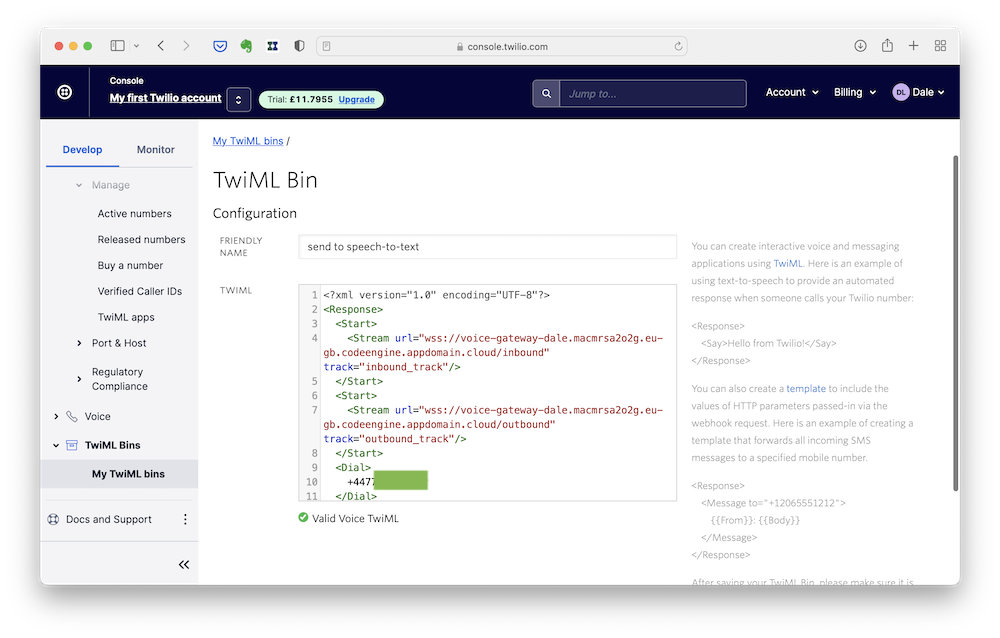
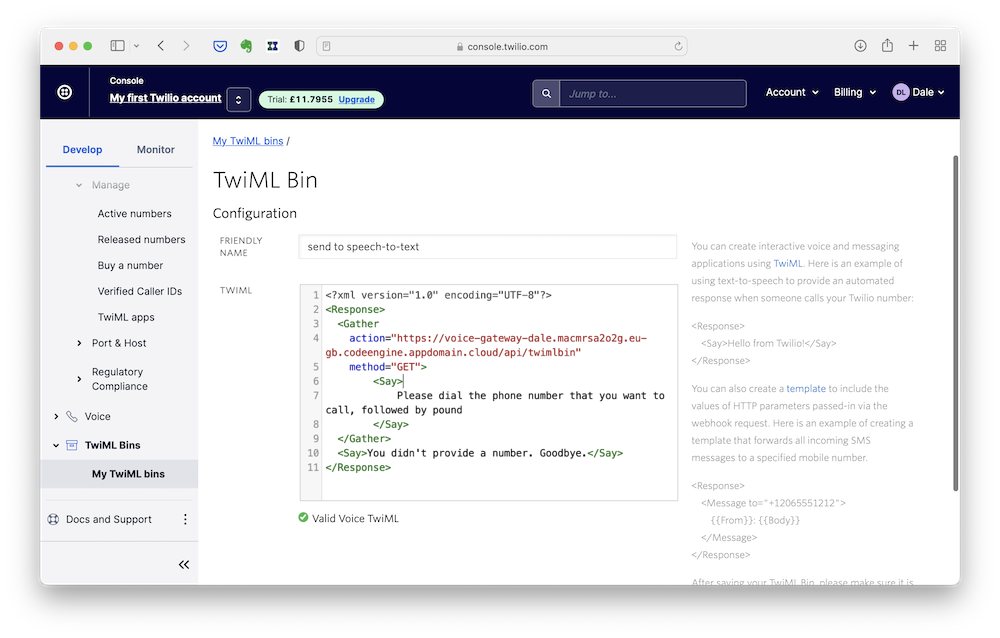
feat: allow the caller to dial the number they want to ring
Instead of hard-coding the receiver's phone number in the TwiML
Bin, this commit lets the caller dial the phone number for the
receiver.

It isn't possible to use both <Gather> and <Dial> in the same
TwiML Bin, so I've split the call handling into two separate bins

The first is responsible for collecting the number. This can be
hard-coded.

The second routes the call to the collected number. This one needs
to be dynamically generated, to use the number that the caller
dialled.

Changed region(s): [[0.31, 0.4467, 0.682, 0.8041], [0.279, 0.7445, 0.31, 0.7743]]

diff --git a/lib/twilio.spec.js b/lib/twilio.spec.js
@@ -1,0 +1,69 @@
+const fs = require('fs');
+const twilio = require('./twilio');
+const expect = require('chai').expect;
+
+
+describe('twiml bin generator', () => {
+
+    function clearEnv() {
+        delete process.env.HOST;
+        delete process.env.CE_APP;
+        delete process.env.CE_SUBDOMAIN;
+        delete process.env.CE_DOMAIN;
+    }
+
+    function getTestFile(loc) {
+        return fs.readFileSync(loc, { encoding: 'utf8' }).trim();
+    }
+
+    after(clearEnv);
+
+
+    describe('running locally', () => {
+        before(() => {
+            clearEnv();
+            twilio.init();
+        });
+
+        it('should generate a template for a number', () => {
+            const NUM = '441231112345';
+            const generated = twilio.generateTwimlBin(NUM);
+            const expected = getTestFile('./lib/testdata/twiml-local.xml');
+            expect(generated).to.equal(expected);
+        });
+    });
+
+
+    describe('running in Code Engine', () => {
+        before(() => {
+            clearEnv();
+            process.env.CE_APP = 'phone-stt-demo';
+            process.env.CE_SUBDOMAIN = 'abcdefg1h2i';
+            process.env.CE_DOMAIN = 'eu-gb.codeengine.appdomain.cloud';
+            twilio.init();
+        });
+
+        it('should generate a template for a number', () => {
+            const NUM = '442380613733';
+            const generated = twilio.generateTwimlBin(NUM);
+            const expected = getTestFile('./lib/testdata/twiml-appengine.xml');
+            expect(generated).to.equal(expected);
+        });
+    });
+
+
+    describe('running with a custom hostname', () => {
+        before(() => {
+            clearEnv();
+            process.env.HOST = 'custom-domain.com';
+            twilio.init();
+        });
+
+        it('should generate a template for a number', () => {
+            const NUM = '441962819579';
+            const generated = twilio.generateTwimlBin(NUM);
+            const expected = getTestFile('./lib/testdata/twiml-custom.xml');
+            expect(generated).to.equal(expected);
+        });
+    });
+});

diff --git a/lib/api.js b/lib/api.js
@@ -5,6 +5,7 @@ const expressWebSocket = require('express-ws');
 const sttStore = require('./stt-store');
 const phoneToStt = require('./phone-to-stt');
 const uiUpdater = require('./ui-updater');
+const twilio = require('./twilio');
 const nlu = require('./nlu');
 const nluConfig = require('./config/nlu');
 
@@ -77,6 +78,30 @@ function getCallSpeakerAnalysis(req, res) {
 
 
 
+/**
+ * Generates a TwiML Bin config XML that defines a routing instruction
+ *  for the phone number identified in the query parameter "Digits".
+ *
+ * @param {Express.Request}  req - expressjs request object
+ * @param {Express.Response} res - expressjs response object
+ */
+function createTwimlBin(req, res) {
+    //
+    // twilio provides the number that the caller typed into their
+    //  phone as a query parameter called "Digits"
+    //
+    // cf. https://www.twilio.com/docs/voice/twiml/gather#action
+    const receiverPhoneNumber = req.query.Digits;
+
+    if (!receiverPhoneNumber) {
+        return res.status(400).json({ error: 'Missing required query parameter "Digits"' });
+    }
+    const twimlbin = twilio.generateTwimlBin(receiverPhoneNumber);
+    res.set('Content-Type', 'text/xml');
+    res.send(twimlbin);
+}
+
+
 
 /**
  * Sets up the provided instance of ExpressJS.
@@ -116,6 +141,13 @@ function setup(app) {
     app.get('/api/calls',                          getCalls);
     app.get('/api/calls/:timestamp/transcript',    getCallTranscript);
     app.get('/api/calls/:timestamp/analysis/:who', getCallSpeakerAnalysis);
+
+
+    // support for text payloads
+    app.use(express.text());
+
+    // API for generating an XML-config for a TwiML Bin
+    app.get('/api/twimlbin', createTwimlBin);
 
 
     // ----------------------------------------------------

diff --git a/lib/api.spec.js b/lib/api.spec.js
@@ -1,5 +1,7 @@
+const fs = require('fs');
 const nlu = require('./nlu');
 const api = require('./api');
+const twilio = require('./twilio');
 const sttStore = require('./stt-store');
 const request = require('supertest');
 const express = require('express');
@@ -29,6 +31,9 @@ describe('rest api', () => {
                 return Promise.resolve(recordedNLUApiResponses[params.text]);
             });
         nlu.init();
+
+        // prepare the twiml bin generator
+        twilio.init();
 
         // create an instance of the server
         const app = express();
@@ -134,5 +139,24 @@ describe('rest api', () => {
             joy: 0.951437,
             sadness: 0.039175
         });
+    });
+
+
+    it('should require a phone number to generate a TwiML Bin config', async () => {
+        const response = await request(testServer).get('/api/twimlbin');
+        expect(response.status).to.eql(400);
+        expect(response.body).to.deep.equal({ error: 'Missing required query parameter "Digits"' });
+    });
+
+    it('should generate a TwiML Bin config', async () => {
+        const response = await request(testServer)
+            .get('/api/twimlbin')
+            .query({ Digits: '441231112345' })
+            .set('Accept', 'text/xml');
+        expect(response.status).to.eql(200);
+        expect(response.headers['content-type']).to.equal('text/xml; charset=utf-8');
+
+        const expected = fs.readFileSync('./lib/testdata/twiml-local.xml', { encoding: 'utf-8' }).trim();
+        expect(response.text).to.equal(expected);
     });
 });

diff --git a/lib/twilio.js b/lib/twilio.js
@@ -1,0 +1,55 @@
+// internal dependencies
+const config = require('./config/appengine');
+// logging
+const log = require('loglevel');
+
+
+/**
+ * hostname for this application
+ * @type {string}
+ */
+let HOSTNAME;
+
+
+
+/**
+ * Logs the configuration being used by this module.
+ */
+function init() {
+    // log current config to help with debugging
+    HOSTNAME = config.getHostname();
+    log.debug('Twilio setup:', { HOSTNAME });
+}
+
+
+/**
+ * Generates the XML for a TwiML Bin that will route a phone call to the
+ *  provided number.
+ *
+ * @param {string} receiverPhoneNumber - phone number to direct the call to
+ *
+ * @returns {string} XML for a TwiML Bin that will route the phone call to the
+ *   provided number, while forwarding the audio to the websocket endpoints
+ *   hosted by this application
+ */
+function generateTwimlBin(receiverPhoneNumber) {
+    return `<?xml version="1.0" encoding="UTF-8"?>
+<Response>
+  <Start>
+    <Stream url="wss://${HOSTNAME}/ws/caller"   track="inbound_track"/>
+  </Start>
+  <Start>
+    <Stream url="wss://${HOSTNAME}/ws/receiver" track="outbound_track"/>
+  </Start>
+  <Dial>
+    +${receiverPhoneNumber}
+  </Dial>
+  <Pause length="40"/>
+</Response>`;
+}
+
+
+module.exports = {
+    init,
+    generateTwimlBin
+};

diff --git a/lib/config/appengine.js b/lib/config/appengine.js
@@ -1,0 +1,37 @@
+
+/**
+ * Returns the external hostname for this running app.
+ *  This does not include the protocol, as we will want to use this
+ *  for both https and wss.
+ *
+ * The hostname is inferred from environment variables, but defaults
+ *  to "localhost" if these are not set.
+ *
+ * @returns {string}
+ */
+function getHostname() {
+    // if a full hostname has been provided as an environment variable,
+    //  we can just use that
+    if (process.env.HOST) {
+        return process.env.HOST;
+    }
+    // if we have App Engine environment variables then we can use these
+    //  to construct what the default hostname should be
+    else if (process.env.CE_APP && process.env.CE_SUBDOMAIN && process.env.CE_DOMAIN) {
+        return [
+            process.env.CE_APP,
+            process.env.CE_SUBDOMAIN,
+            process.env.CE_DOMAIN
+        ].join('.');
+    }
+    // otherwise assume we are running on a developer machine
+    else {
+        return 'localhost';
+    }
+}
+
+
+
+module.exports = {
+    getHostname
+};

diff --git a/app.js b/app.js
@@ -2,6 +2,7 @@ const express = require('express');
 const log = require('loglevel');
 const api = require('./lib/api');
 const nlu = require('./lib/nlu');
+const twilio = require('./lib/twilio');
 const phoneToStt = require('./lib/phone-to-stt');
 const env = require('./lib/env');
 
@@ -19,6 +20,7 @@ const PORT = 8080;
 
 phoneToStt.init();
 nlu.init();
+twilio.init();
 api.setup(app);
 
 log.info('server will listen on', PORT);

diff --git a/twilio-setup/instructions.md b/twilio-setup/instructions.md
@@ -86,22 +86,18 @@ Here is a suggested configuration:
 ```xml
 <?xml version="1.0" encoding="UTF-8"?>
 <Response>
-  <Start>
-    <Stream url="wss://REPLACE-THIS-HOSTNAME/ws/caller" track="inbound_track"/>
-  </Start>
-  <Start>
-    <Stream url="wss://REPLACE-THIS-HOSTNAME/ws/receiver" track="outbound_track"/>
-  </Start>
-  <Dial>
-    REPLACE-THIS-NUMBER
-  </Dial>
-  <Pause length="40" />
+  <Gather
+    action="REPLACE-THIS-URL/api/twimlbin"
+    method="GET">
+        <Say>
+			Please dial the phone number that you want to call, followed by pound
+        </Say>
+  </Gather>
+  <Say>You didn't provide a number. Goodbye.</Say>
 </Response>
 ```
 
-Replace `REPLACE-THIS-HOSTNAME` with the URL for where you are running the application.
-
-Replace `REPLACE-THIS-NUMBER` with the phone number that you want to direct phone calls to.
+Replace `REPLACE-THIS-URL` with the URL for where you are running the application.
 
 ![setup call routing](./screenshot-34.png)
 

diff --git a/README.md b/README.md
@@ -271,7 +271,7 @@ ibmcloud ce application get \
 
 This will give you a URL like `https://phone-stt-demo.abcdefg1a2b.eu-gb.codeengine.appdomain.cloud`.
 
-Take the hostname (e.g. `phone-stt-demo.abcdefg1a2b.eu-gb.codeengine.appdomain.cloud`) and use it as the `REPLACE-THIS-HOSTNAME` value in following the [Twilio setup instructions](./twilio-setup/instructions.md).
+Use this as the `REPLACE-THIS-URL` value in following the [Twilio setup instructions](./twilio-setup/instructions.md).
 
 ---
 
